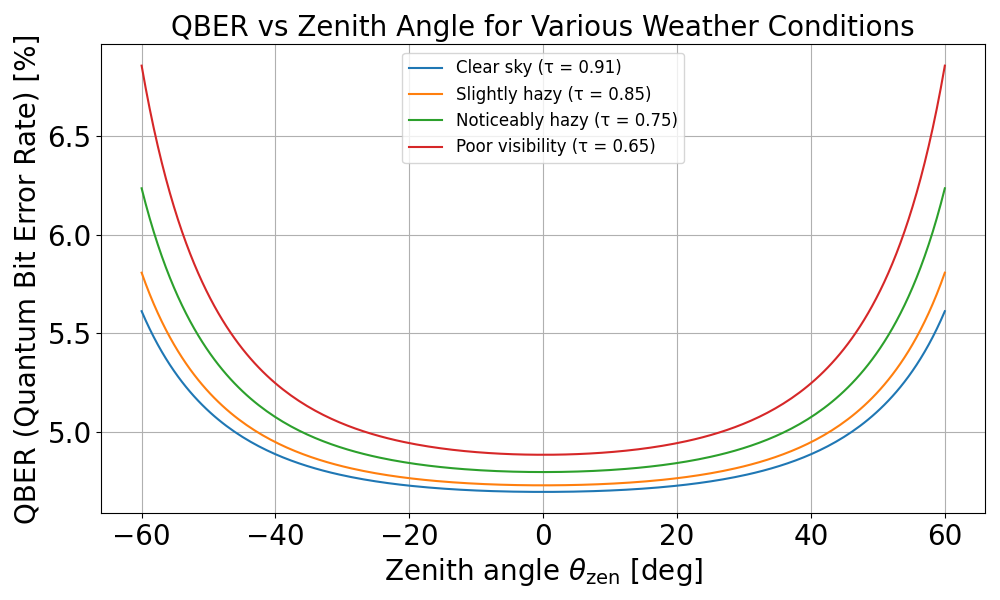
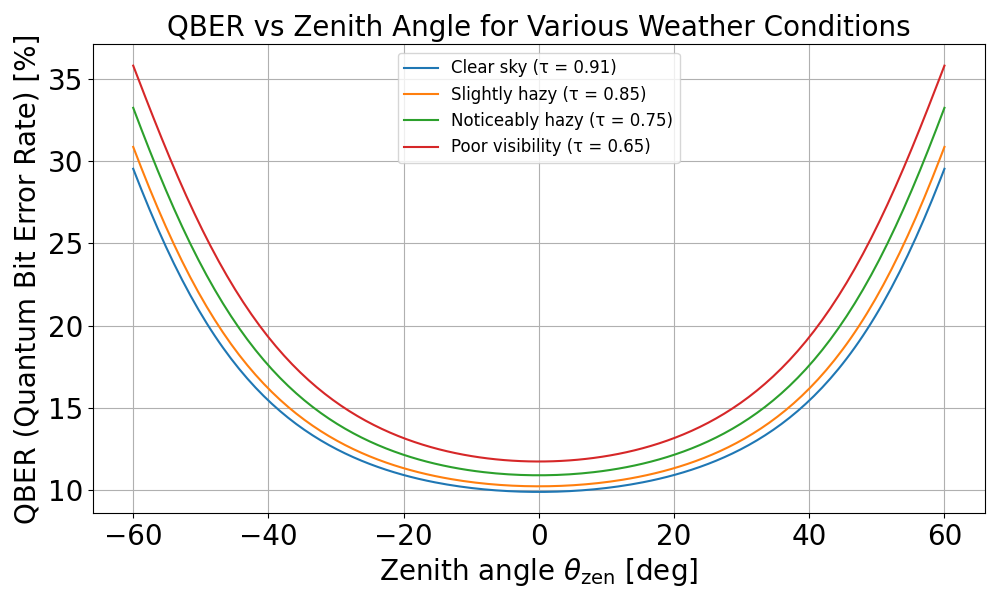
WIP: simualte for QBER

diff --git a/BB84/SimulationResult/Circle_beam/QBER/ave_qber_zenith.py b/BB84/SimulationResult/Circle_beam/QBER/ave_qber_zenith.py
@@ -88,26 +88,6 @@ def approximate_jitter_variance(mu_x, mu_y, sigma_x, sigma_y):
     sigma_mod_value = (numerator / 2) ** (1/3)
     return sigma_mod_value
 
-# calculate the ratios between the equivalent beam-width and (modified) beam-jitter variances
-def sigma_to_variance(sigma, w_L):
-    variance = w_L/2*sigma
-    return variance
-
-
-# calculate the modified fracton of collected power over the receiving aparture when there is no pointing error
-def mod_jitter(mu_x, mu_y, sigma_x, sigma_y, w_L, varphi_mod):
-    A_0 = transmissivity_0(a, w_L)
-    varphi_x = sigma_to_variance(sigma_x, w_L)
-    varphi_y = sigma_to_variance(sigma_y, w_L)
-    # sigma_mod = approximate_jitter_variance(mu_x, mu_y, sigma_x, sigma_y)
-    term1 = 1 / (varphi_mod ** 2)
-    term2 = 1 / (2 * varphi_x ** 2)
-    term3 = 1 / (2 * varphi_y ** 2)
-    term4 = mu_x**2 / (2 * sigma_x ** 2 * varphi_x ** 2)
-    term5 = mu_y**2 / (2 * sigma_y ** 2 * varphi_y ** 2)
-    exponent = term1 - term2 - term3 - term4 - term5
-    A_mod = A_0 * np.exp(exponent)
-    return A_mod
 
 
 def satellite_ground_distance(h_s, H_g, theta_zen_rad):
@@ -140,10 +120,10 @@ def cn2_profile(h, v_wind=21, Cn2_0=1e-13):
 
 
 # Calculate the fading loss value
-def fading_loss(gamma, mu_x, mu_y, sigma_x, sigma_y, theta_zen_rad, H_atm, w_L, tau_zen, varphi_mod):
+def fading_loss(gamma, mu_x, mu_y, sigma_x, sigma_y, theta_zen_rad, H_atm, w_Leq, tau_zen, varphi_mod):
     eta_t = transmissivity_etat(tau_zen, theta_zen_rad)
     sigma_R_squared = rytov_variance(lambda_, theta_zen_rad, H_g, H_atm, cn2_profile)
-    A_mod = mod_jitter(mu_x, mu_y, sigma_x, sigma_y, w_L, varphi_mod)
+    A_mod = mod_jitter(mu_x, mu_y, sigma_x, sigma_y, w_Leq, varphi_mod)
     mu = sigma_R_squared/2 * (1+2*varphi_mod**2)
     term1 = (varphi_mod**2) / (2 * (A_mod * eta_t)**(varphi_mod**2))
     term2 = gamma ** (varphi_mod**2 - 1)
@@ -151,33 +131,6 @@ def fading_loss(gamma, mu_x, mu_y, sigma_x, sigma_y, theta_zen_rad, H_atm, w_L, 
     term4 = np.exp(((sigma_R_squared/2) * varphi_mod**2 * (1 + varphi_mod**2)))
     eta_f = term1 * term2 * term3 * term4
     return eta_f
-
-#==================================================================#
-# fading_loss : PDF of beam jitter for γ
-# qber_loss   : Transmission efficiency Bit error rate with respect to γ
-# h_s         : Satellite's altitude (m)
-#==================================================================#
-def qner_new_infinite(theta_zen_rad, H_atm, w_L, tau_zen, varphi_mod):
-    # beam propagation distance
-    L = satellite_ground_distance(h_s, H_g, theta_zen_rad)
-    # mu_y = 0
-    # mu_x = 0
-    # angle_sigma_x = 3e-6
-    # angle_sigma_y = 3e-6
-    sigma_x = angle_sigma_x * L
-    sigma_y = angle_sigma_y * L
-    L = satellite_ground_distance(h_s, H_g, theta_zen_rad)
-    w_L = compute_w_L(lambda_, theta_d_half_rad, L, H_atm, H_g, theta_zen_rad)
-    sigma_mod = compute_sigma_mod(mu_x, mu_y, sigma_x, sigma_y)
-    w_Leq_squared = equivalent_beam_width_squared(a, w_L)
-    varphi_mod = varphi_mod(w_Leq_squared, sigma_mod)
-    
-
-    def integrand(gamma_mean):
-        return fading_loss(gamma_mean, mu_x, mu_y, sigma_x, sigma_y, theta_zen_rad, H_atm, w_L, tau_zen, varphi_mod) * qber_loss(gamma_mean, n_s)
-
-    result, _ = quad(integrand, 0, np.inf, limit=100, epsabs=1e-9, epsrel=1e-9)
-    return result
 
 
 def weather_condition(tau_zen):
@@ -201,7 +154,6 @@ def compute_w_L(lambda_, theta_d_half_rad, L, H_atm, H_OGS, theta_zen_rad):
     w_0 = lambda_ / (math.pi * theta_d_half_rad)
 
     W = w_0 * math.sqrt(1 + (2 * L) / (k * w_0))
-
 
     def integrand(h):
         return Cn_squared(h) * ((h - H_OGS) / (H_atm - H_OGS))**(5/3)
@@ -231,17 +183,17 @@ def approximate_jitter_variance(mu_x, mu_y, sigma_x, sigma_y):
     return sigma_mod_value
 
 # calculate the ratios between the equivalent beam-width and (modified) beam-jitter variances
-def sigma_to_variance(sigma, w_L):
-    variance = w_L/2*sigma
+def sigma_to_variance(sigma, w_Leq):
+    variance = w_Leq/2*sigma
     return variance
 
 # calculate the modified fracton of collected power over the receiving aparture when there is no pointing error
-def mod_jitter(mu_x, mu_y, sigma_x, sigma_y, w_L):
-    A_0 = transmissivity_0(a, w_L)
-    varphi_x = sigma_to_variance(sigma_x, w_L)
-    varphi_y = sigma_to_variance(sigma_y, w_L)
+def mod_jitter(mu_x, mu_y, sigma_x, sigma_y, w_Leq):
+    A_0 = transmissivity_0(a, w_Leq)
+    varphi_x = sigma_to_variance(sigma_x, w_Leq)
+    varphi_y = sigma_to_variance(sigma_y, w_Leq)
     sigma_mod = approximate_jitter_variance(mu_x, mu_y, sigma_x, sigma_y)
-    varphi_mod = sigma_to_variance(sigma_mod, w_L)
+    varphi_mod = sigma_to_variance(sigma_mod, w_Leq)
     term1 = 1 / (varphi_mod ** 2)
     term2 = 1 / (2 * varphi_x ** 2)
     term3 = 1 / (2 * varphi_y ** 2)
@@ -286,24 +238,24 @@ def compute_sigma_mod(mu_x, mu_y, sigma_x, sigma_y):
     return sigma_mod
 
 # Equivalent Beam Width
-def equivalent_beam_width_squared(a, w_L):
-    nu = (math.sqrt(math.pi) * a) / (math.sqrt(2) * w_L)
+def equivalent_beam_width_squared(a, w_Leq):
+    nu = (math.sqrt(math.pi) * a) / (math.sqrt(2) * w_Leq)
     numerator = math.sqrt(math.pi) * erf(nu)
     denominator = 2 * nu * math.exp(-nu**2)
-    w_Leq_squared = w_L**2 * (numerator / denominator)
+    w_Leq_squared = w_Leq**2 * (numerator / denominator)
     return w_Leq_squared
 
 # Calculate varphi_mod
-def varphi_mod(w_Leq_squared, sigma_mod):
+def compute_varphi_mod(w_Leq_squared, sigma_mod):
     w_Leq = math.sqrt(w_Leq_squared)
     return w_Leq / (2 * sigma_mod)
 
 # Calculate the fading loss value
-def fading_loss(gamma, mu_x, mu_y, sigma_x, sigma_y, theta_zen_rad, H_atm, w_L, tau_zen, varphi_mod):
+def fading_loss(gamma, mu_x, mu_y, sigma_x, sigma_y, theta_zen_rad, H_atm, w_Leq, tau_zen, varphi_mod):
     eta_t = transmissivity_etat(tau_zen, theta_zen_rad)
     sigma_R_squared = rytov_variance(lambda_, theta_zen_rad, H_g, H_atm, cn2_profile)
     varphi_mod = 4.3292
-    A_mod = mod_jitter(mu_x, mu_y, sigma_x, sigma_y, w_L)
+    A_mod = mod_jitter(mu_x, mu_y, sigma_x, sigma_y, w_Leq)
     mu = sigma_R_squared/2 * (1+2*varphi_mod**2)
     term1 = (varphi_mod**2) / (2 * (A_mod * eta_t)**(varphi_mod**2))
     term2 = gamma ** (varphi_mod**2 - 1)
@@ -312,10 +264,31 @@ def fading_loss(gamma, mu_x, mu_y, sigma_x, sigma_y, theta_zen_rad, H_atm, w_L, 
     eta_f = term1 * term2 * term3 * term4
     return eta_f
 
-def to_decimal_string(x, precision=100):
-    if x == 0:
-        return "0." + "0" * precision
-    return format(x, f'.{precision}f').rstrip('0').rstrip('.')
+#==================================================================#
+# fading_loss : PDF of beam jitter for γ
+# qber_loss   : Transmission efficiency Bit error rate with respect to γ
+# h_s         : Satellite's altitude (m)
+#==================================================================#
+def qner_new_infinite(theta_zen_rad, H_atm, w_L, tau_zen, LoS):
+    # beam propagation distance
+    # mu_y = 0
+    # mu_x = 0
+    # angle_sigma_x = 3e-6
+    # angle_sigma_y = 3e-6
+    sigma_x = angle_sigma_x * LoS
+    sigma_y = angle_sigma_y * LoS
+
+    sigma_mod = compute_sigma_mod(mu_x, mu_y, sigma_x, sigma_y)
+    w_Leq_squared = equivalent_beam_width_squared(a, w_L)
+    varphi_mod = compute_varphi_mod(w_Leq_squared, sigma_mod)
+    w_Leq = math.sqrt(w_Leq_squared)
+    
+
+    def integrand(gamma_mean):
+        return fading_loss(gamma_mean, mu_x, mu_y, sigma_x, sigma_y, theta_zen_rad, H_atm, w_Leq, tau_zen, varphi_mod) * qber_loss(gamma_mean, n_s)
+
+    result, _ = quad(integrand, 0, np.inf, limit=100, epsabs=1e-9, epsrel=1e-9)
+    return result
 
 
 def main():
@@ -330,9 +303,10 @@ def main():
         for theta_zen_deg in theta_zen_deg_list:
             theta_zen_rad = math.radians(theta_zen_deg)
             H_atm = 20000
-            L = satellite_ground_distance(h_s, H_g, theta_zen_rad)
-            w_L = compute_w_L(lambda_, theta_d_half_rad, L, H_atm, H_g, theta_zen_rad)
-            qber = qner_new_infinite(theta_zen_rad, H_atm, w_L, tau_zen, varphi_mod)
+            LoS = satellite_ground_distance(h_s, H_g, theta_zen_rad)
+            w_L = compute_w_L(lambda_, theta_d_half_rad, LoS, H_atm, H_g, theta_zen_rad)
+
+            qber = qner_new_infinite(theta_zen_rad, H_atm, w_L, tau_zen, LoS)
             qber_values.append(qber*100)
 
         label = weather_condition(tau_zen) + f" (τ = {tau_zen})"
